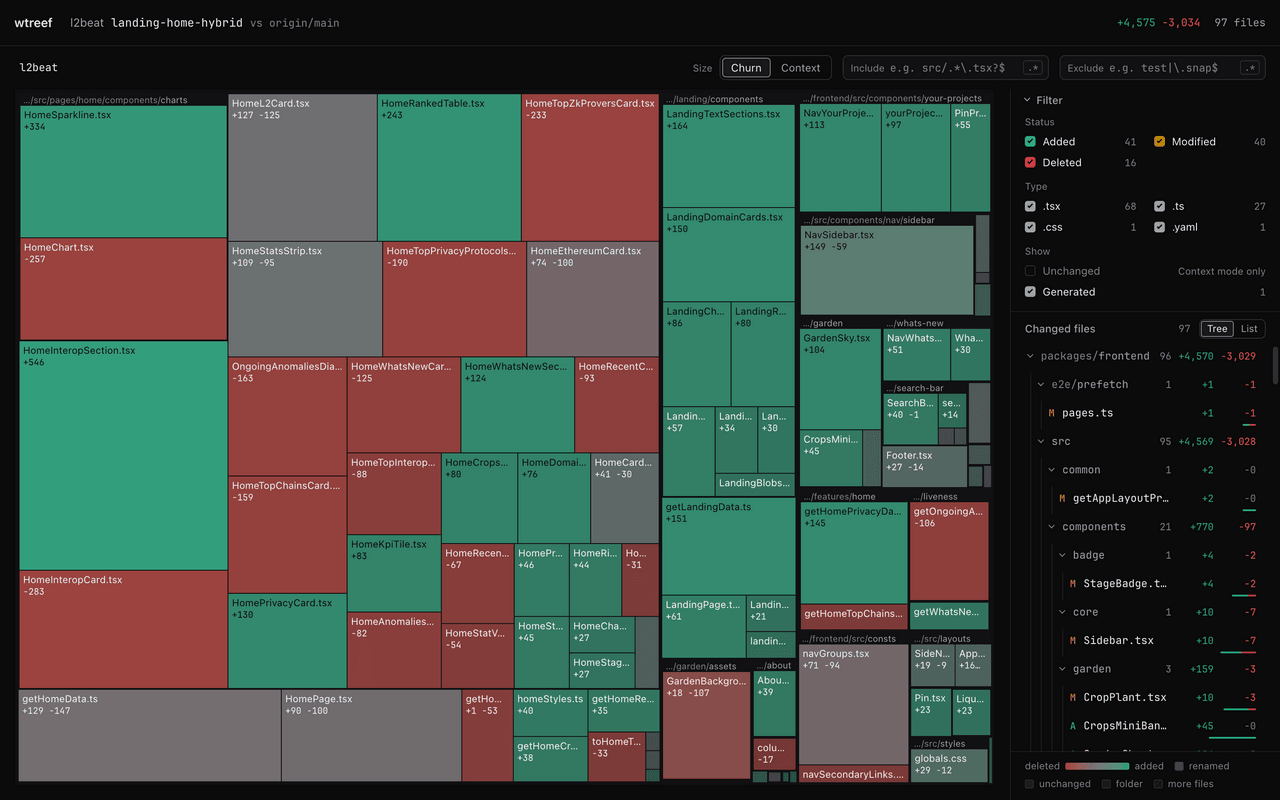
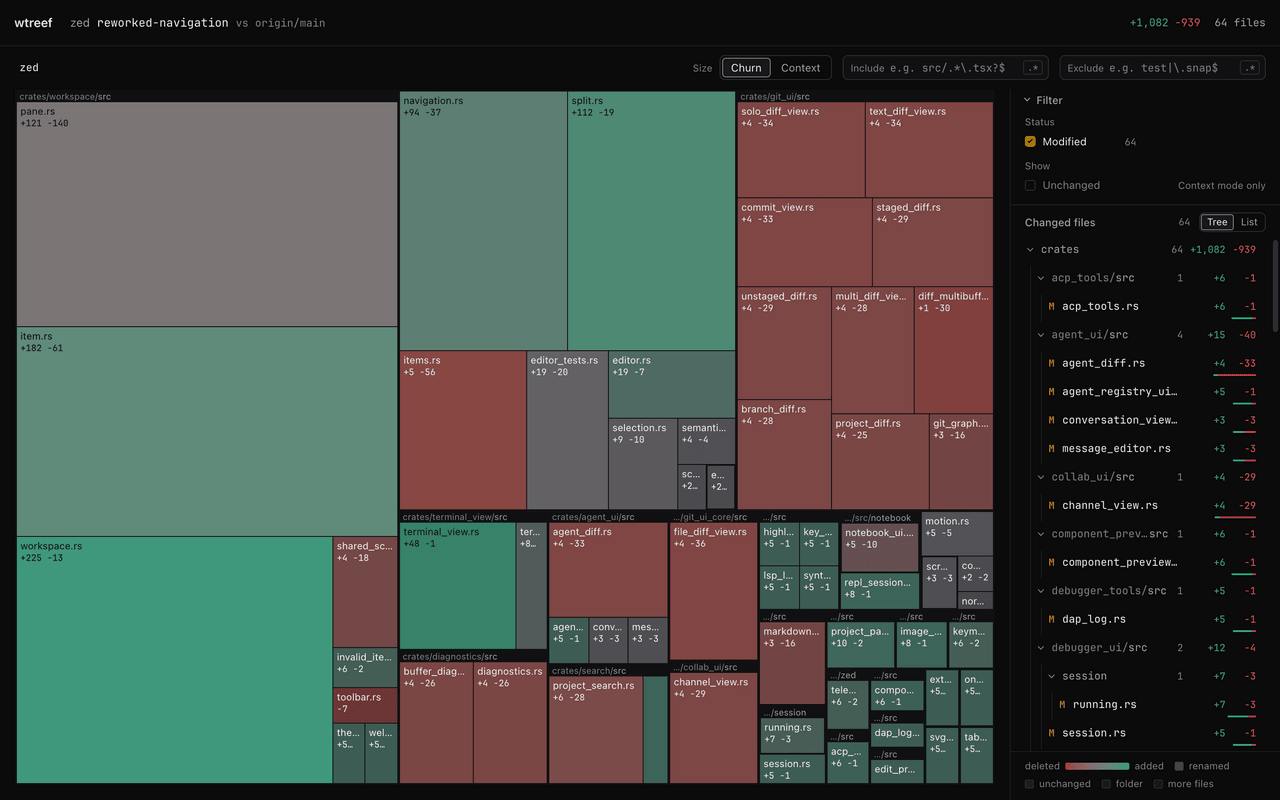
Screenshot a Zed branch instead of an l2beat one
Zed's reworked-navigation pull request (64 files, +1,082 -939) is a
public repository and a change spread across many crates, so the map
shows more of the colour range. Same capture and compression as before:
dark scheme, 1280x800, pngquant then oxipng, 261 KB to 74 KB.

diff --git a/README.md b/README.md
@@ -12,7 +12,7 @@ your branch changed since it left the default branch: commits, staged and
 unstaged edits, untracked files. Reload the page to see new edits. Nothing
 leaves your machine.
 
-![A branch of l2beat in wtreef: a treemap of the repository with the changed files colored by added and deleted lines](https://raw.githubusercontent.com/mateuszradomski/wtreef/main/docs/screenshot.png)
+![A branch of Zed in wtreef: a treemap of the repository with the changed files colored by added and deleted lines](https://raw.githubusercontent.com/mateuszradomski/wtreef/main/docs/screenshot.png)
 
 ## The map
 
